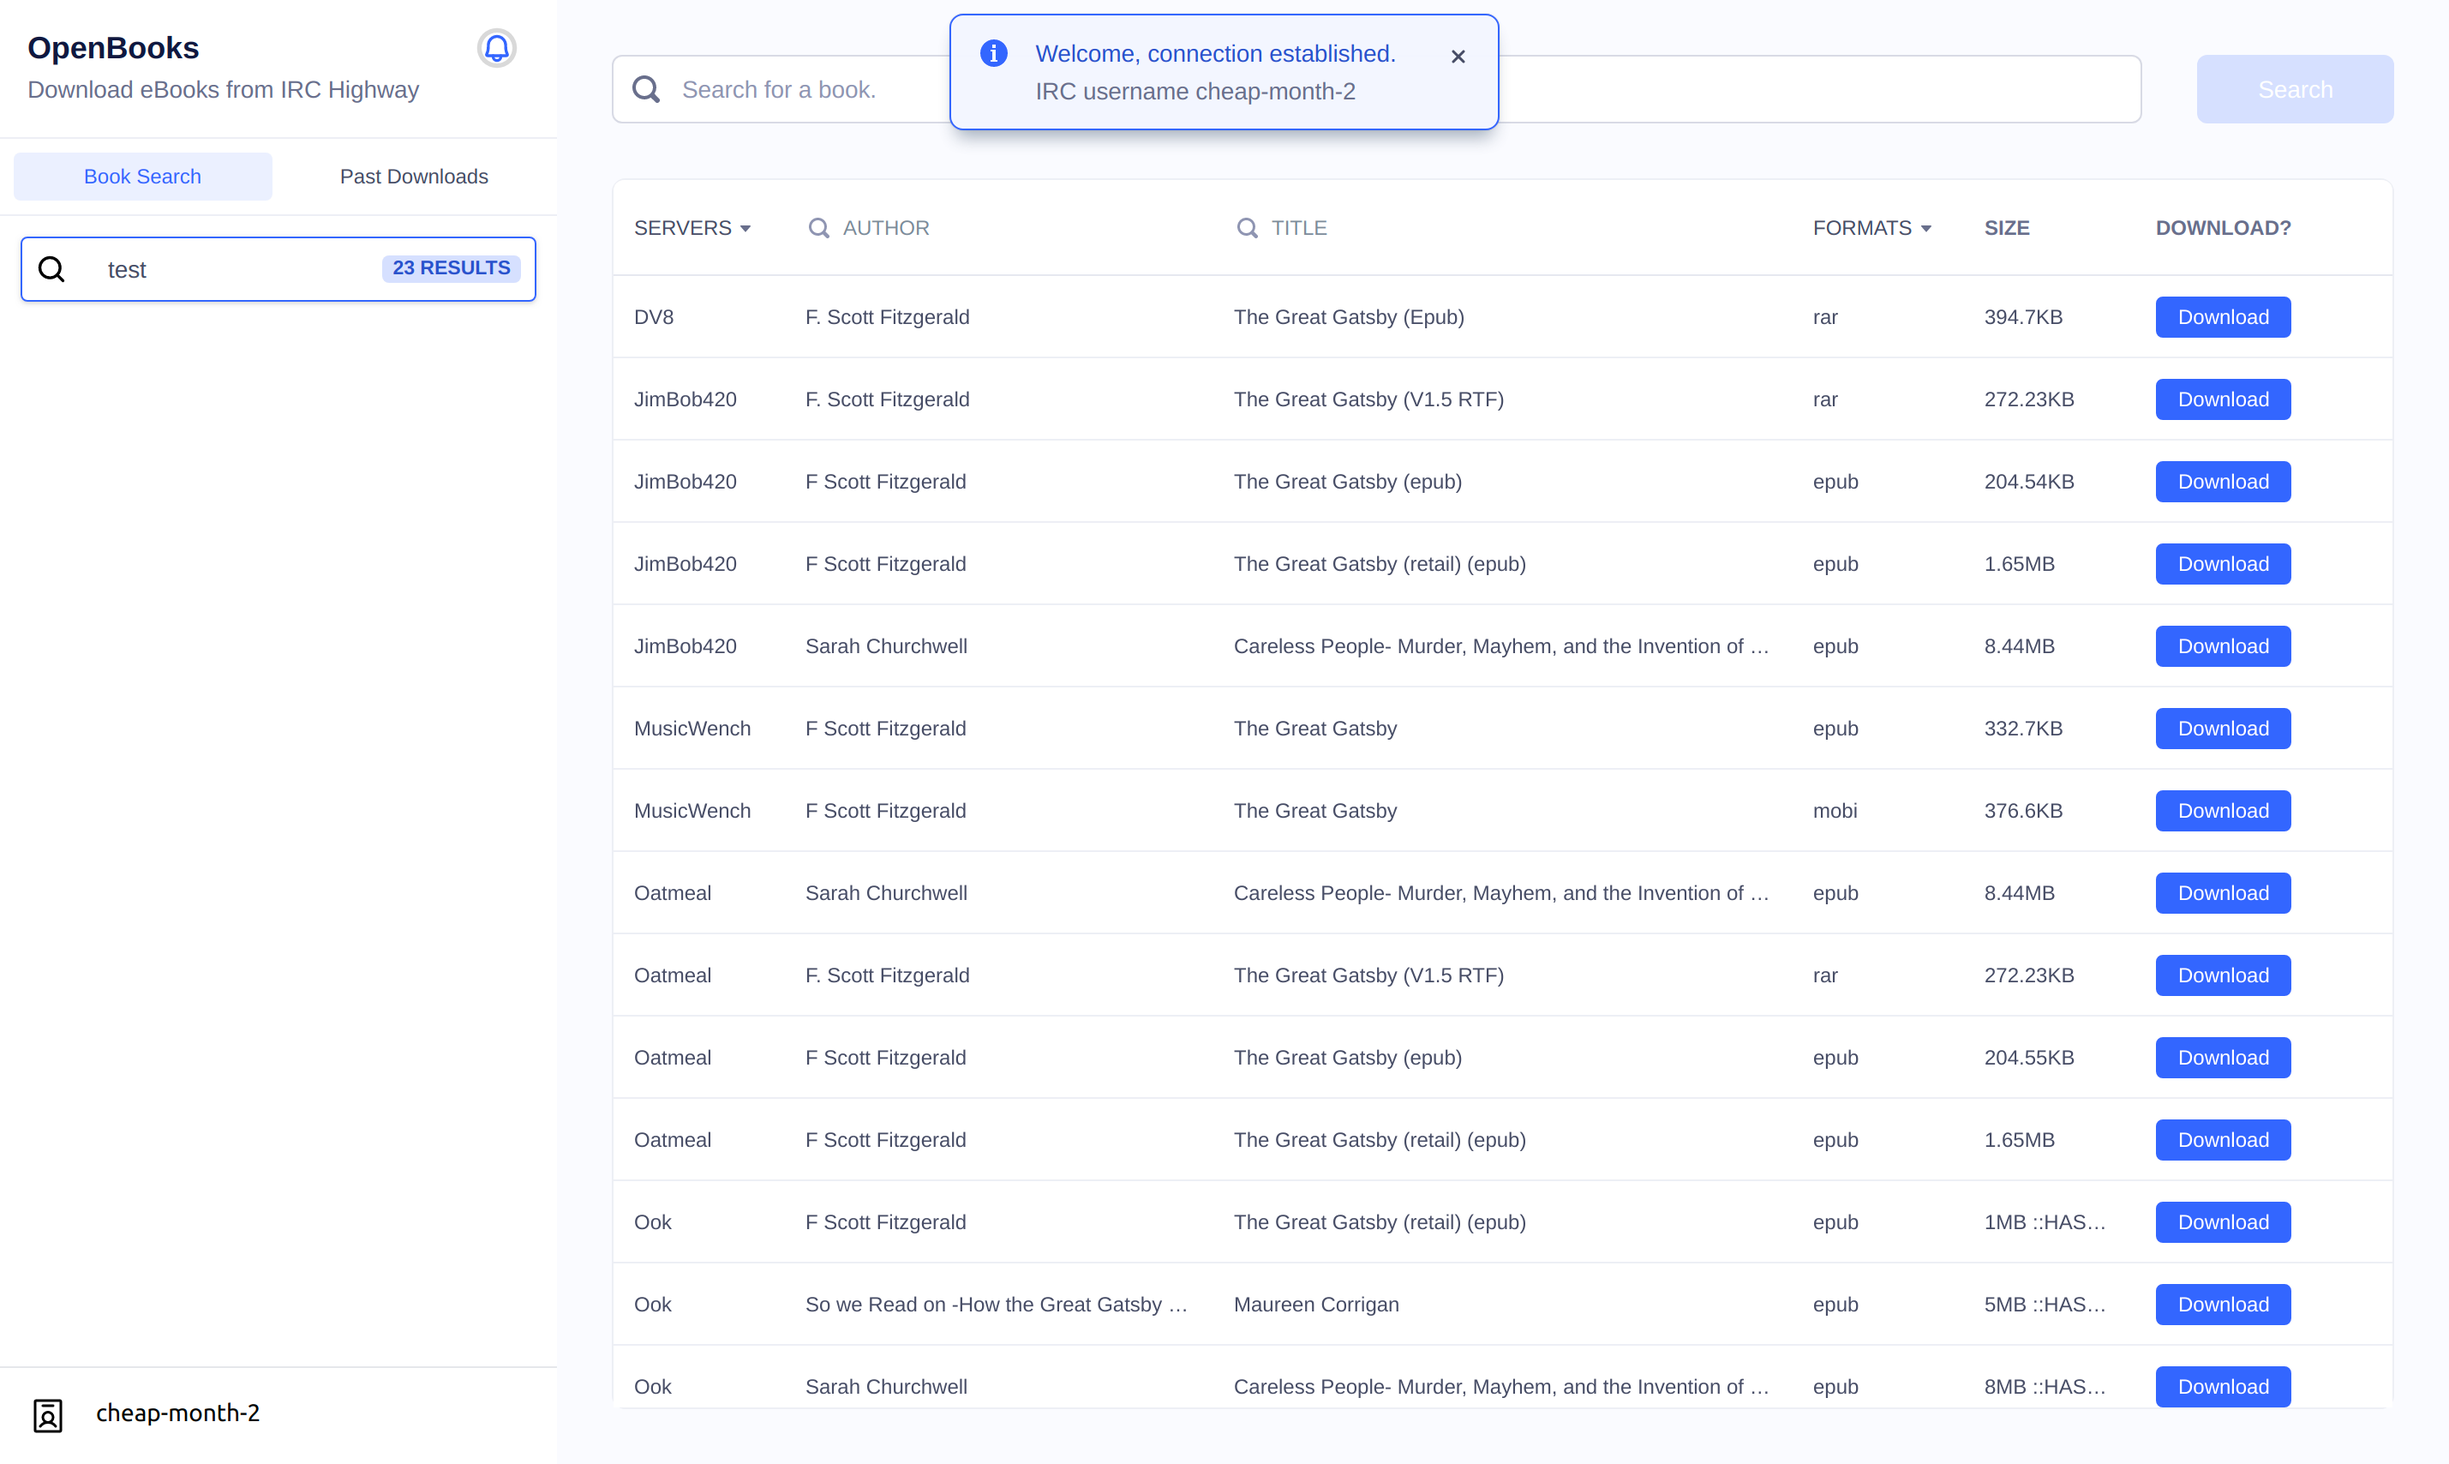
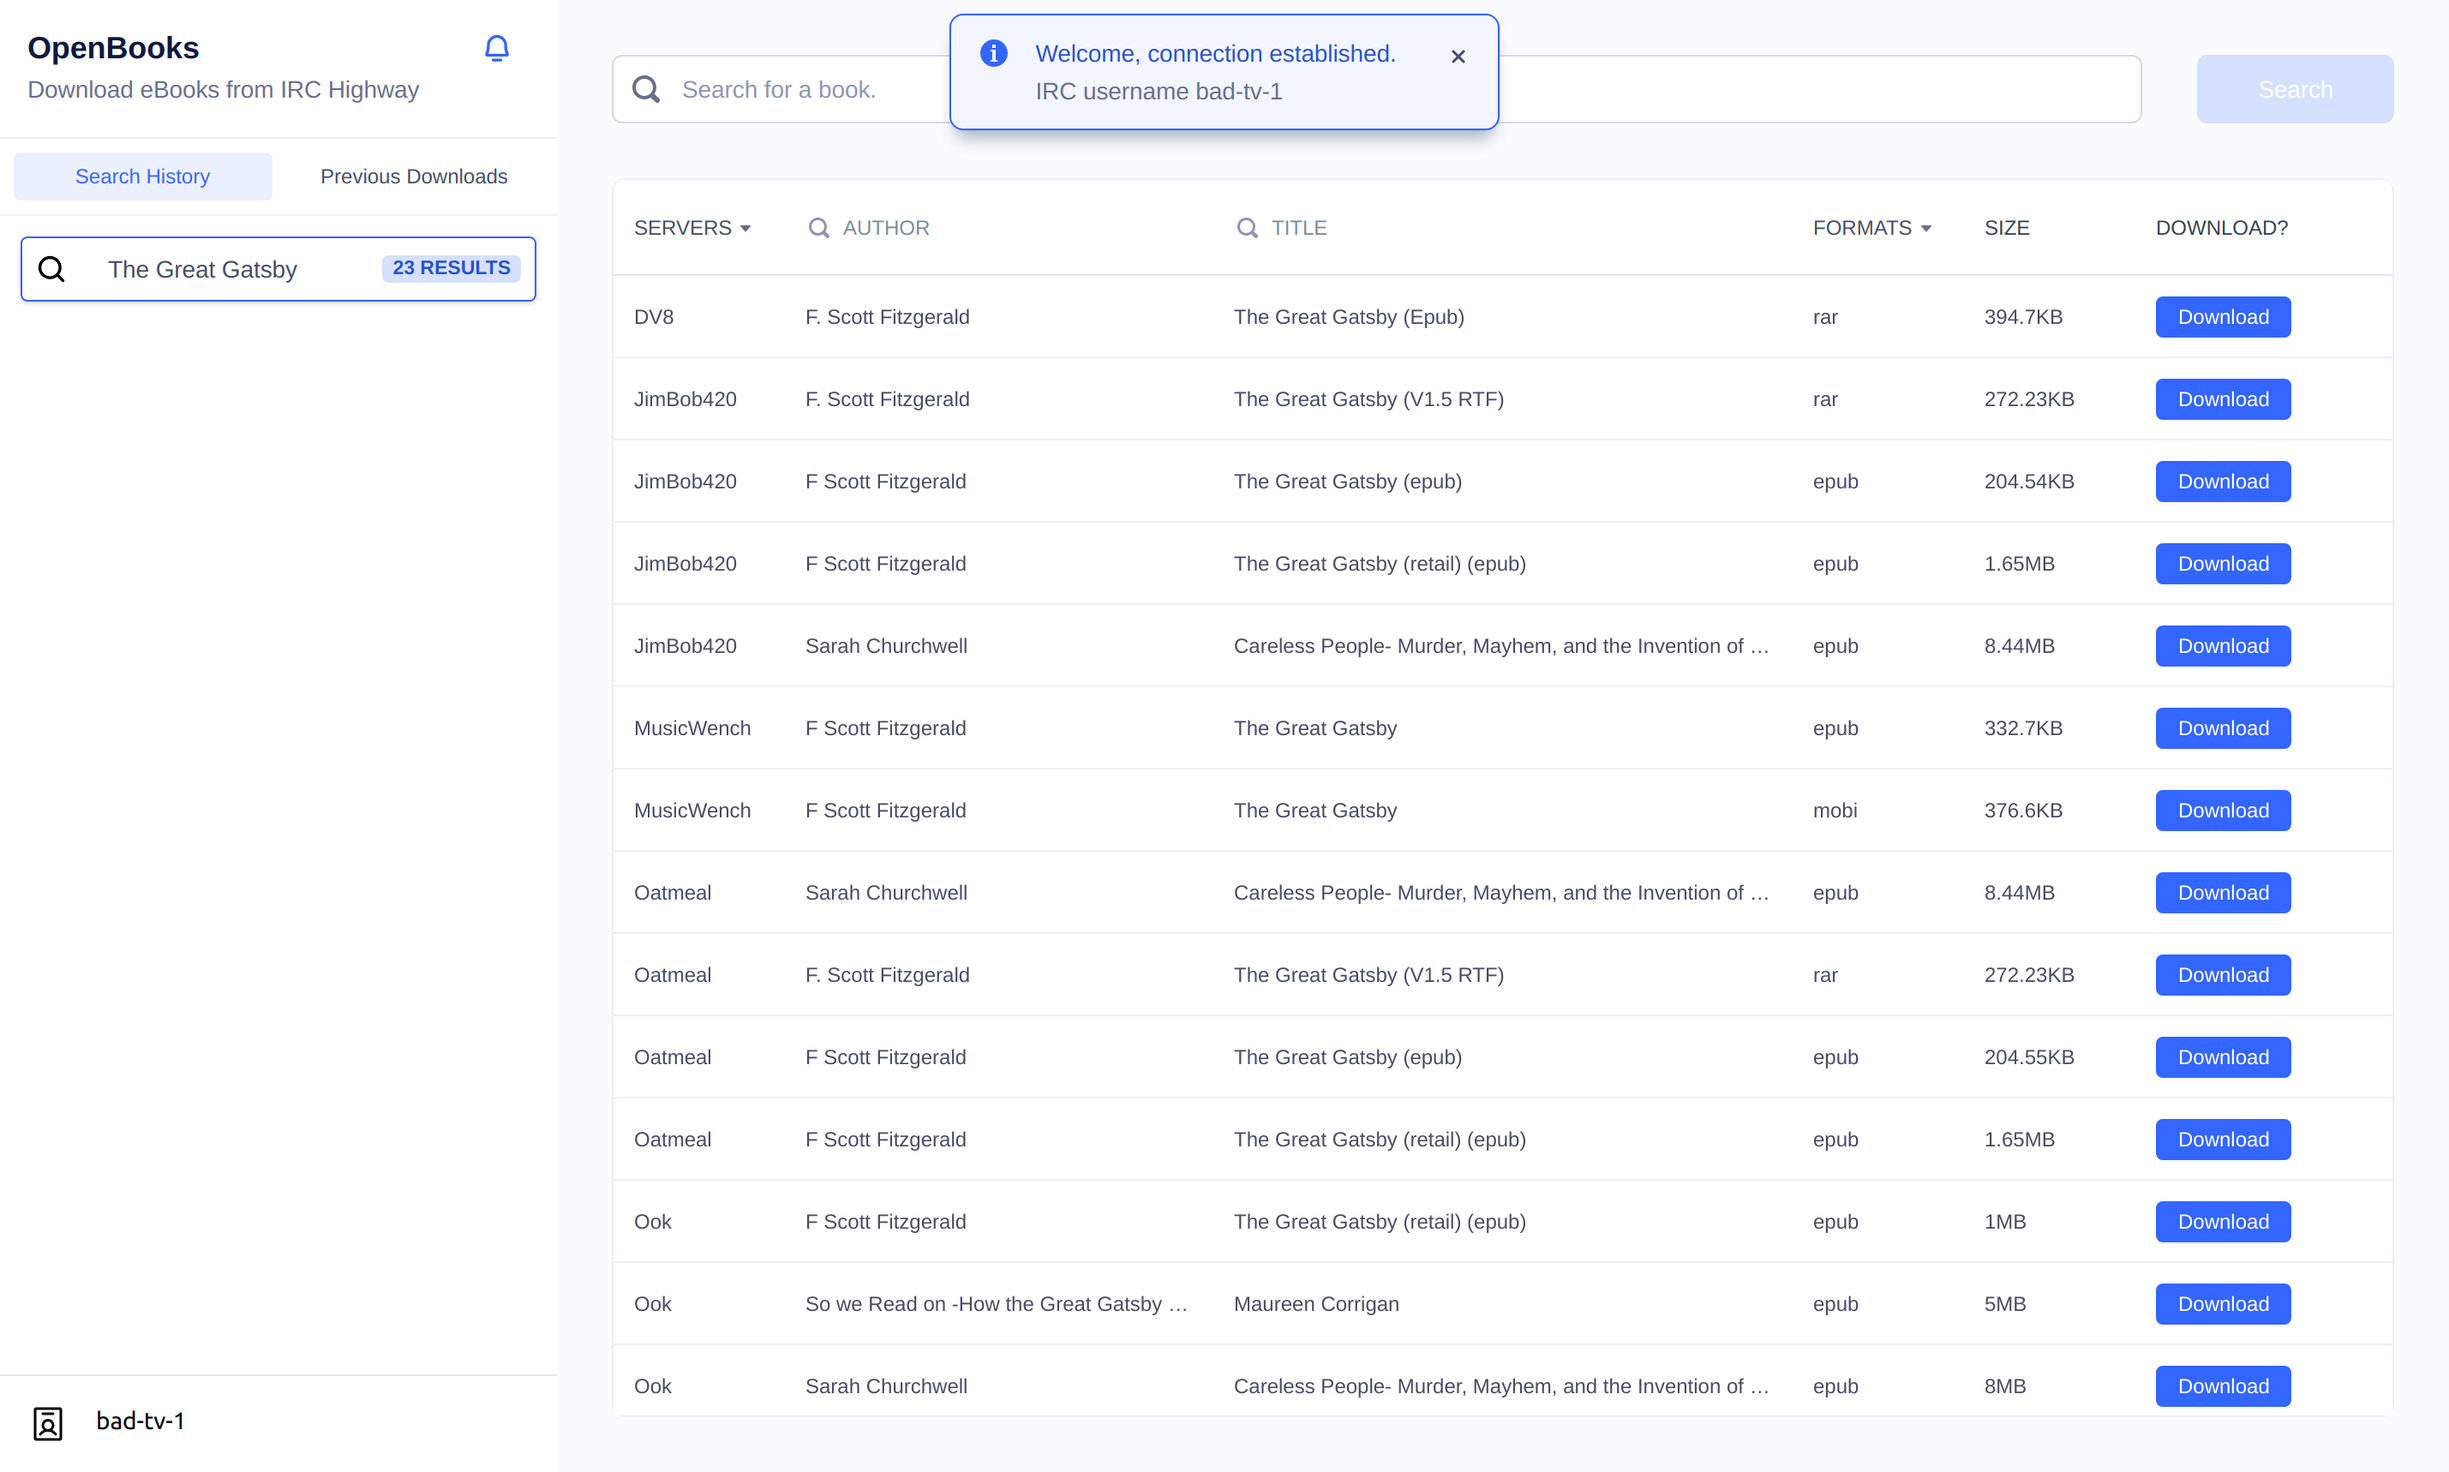
Search result parser handles trailing ::HASH:: strings
- Previously the ::HASH:: was included as part of the size

diff --git a/server/app/src/components/SideBar/Sidebar.tsx b/server/app/src/components/SideBar/Sidebar.tsx
@@ -38,7 +38,7 @@ const Sidebar: React.FC = () => {
           </Pane>
           <Pane display="flex" padding={8} borderBottom="muted">
             <Tablist display="flex" flex={1} justifyContent="space-between">
-              {["Book Search", "Previous Downloads"].map((tab, index) => (
+              {["Search History", "Previous Downloads"].map((tab, index) => (
                 <Tab
                   key={tab}
                   flex={1}

diff --git a/core/search_parser.go b/core/search_parser.go
@@ -128,7 +128,13 @@ func parseLine(line string) (BookDetail, error) {
 	if tmp = strings.Index(line, "::INFO:: "); tmp == -1 {
 		return BookDetail{}, errors.New("could not parse size")
 	}
-	book.Size = line[tmp+9:]
+
+	line = strings.TrimSpace(line)
+	splits := strings.Split(line, " ")
+
+	if len(splits) >= 2 {
+		book.Size = splits[1]
+	}
 
 	return book, nil
 }
